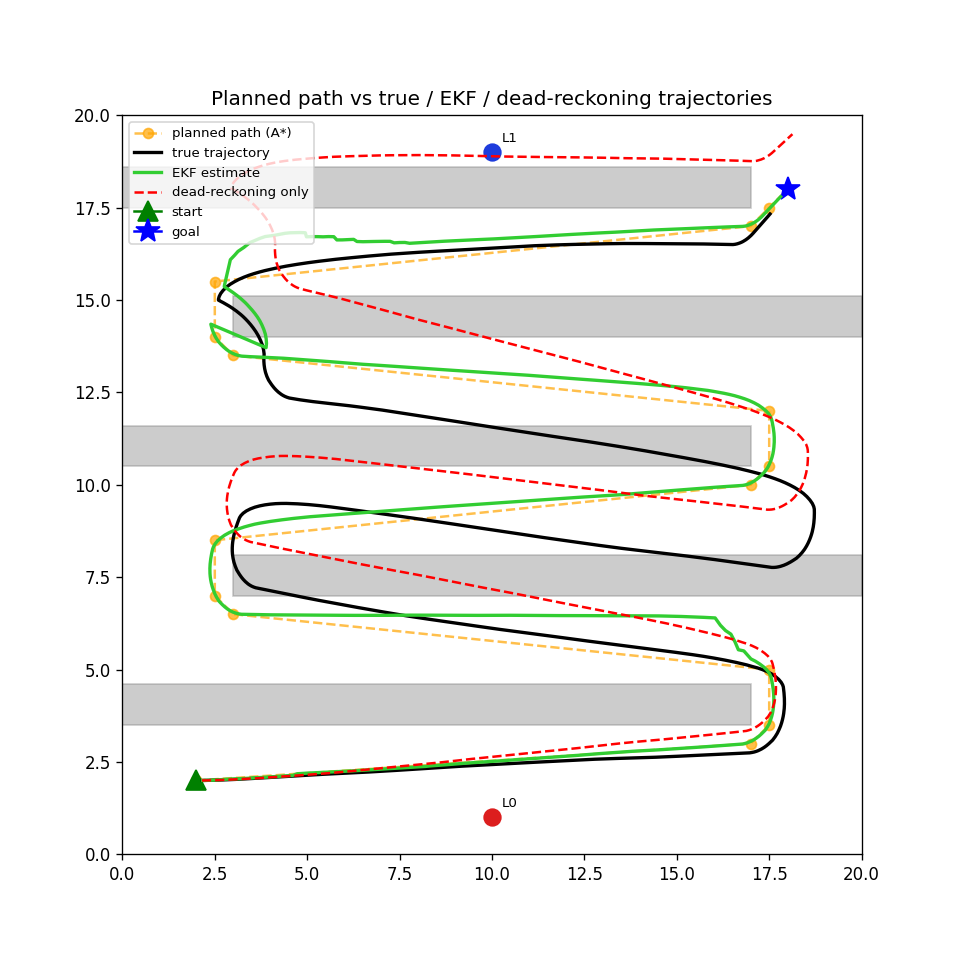
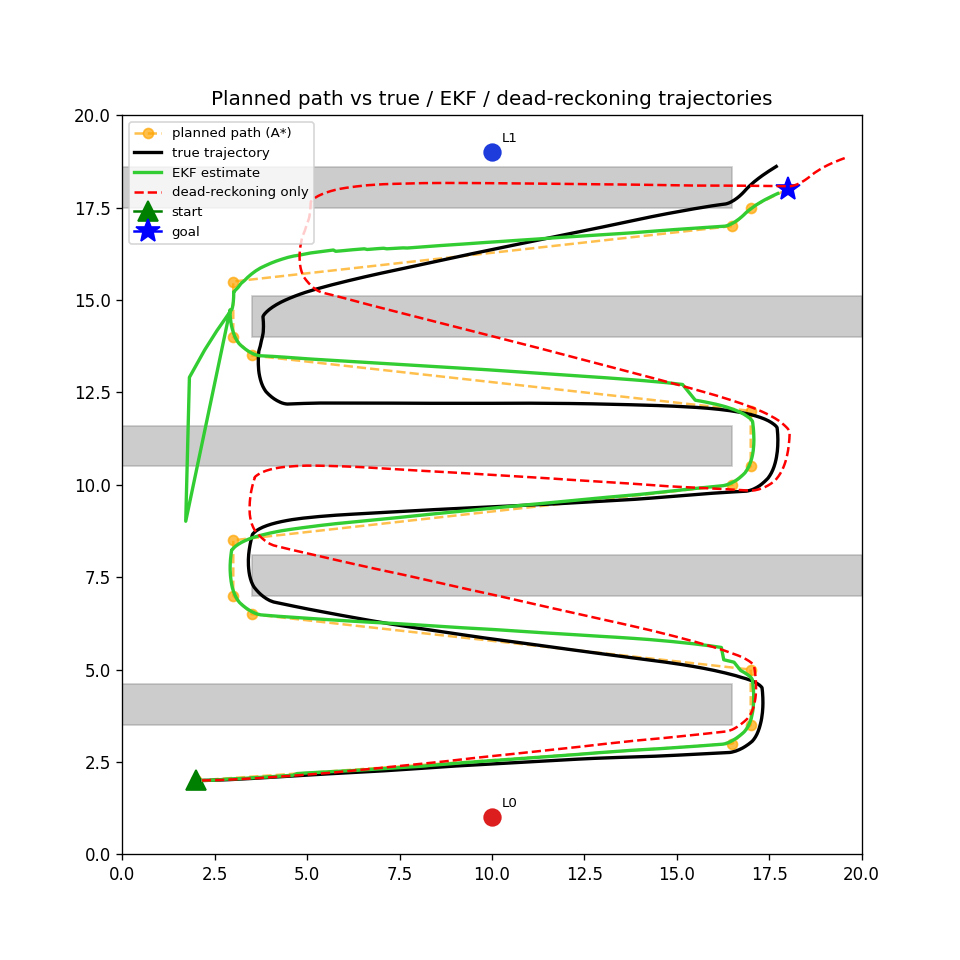
Fix controller cutting through walls at sharp maze corners
Root cause: this is a kinematic robot model (v/omega apply instantly, no
momentum), and the point-pursuit controller only scaled speed by plain
cos(heading_error), which still allows ~70% speed at 45 degrees of
misalignment. Turning 45+ degrees takes several timesteps at
MAX_ANGULAR_VELOCITY, and during those steps the robot kept translating
mostly in its old direction, enough to drive straight through a wall at
a sharp zigzag corner even though the planned A* path correctly routed
around it.

Fix: raise cos(heading_error) to a power (SPEED_TAPER_POWER = 4) instead
of using it directly, same shape, but drops off much faster in between,
so the robot is far more conservative about translating while still
turning. Eliminates the collision entirely in easy/medium/hard/very_hard.

Tried increasing the planner's obstacle margin instead (both for the grid
search and for path simplification), reverted both: each approach fixed
one scenario while breaking another, since margin changes which raw path
A* finds and how it gets simplified into straight segments, just moving
the sharp corners around rather than removing them.

extreme still grazes a wall occasionally (down from 139/759 steps to
55/739, and the pattern changed from one long 42-step overlap to three
short scattered incidents), traced this to a different cause:
extreme's sparse 2 landmarks let the EKF estimate drift further between
corrections, and the controller steers off that estimate, not the true
[…]

diff --git a/python/environment.py b/python/environment.py
@@ -112,11 +112,11 @@ SCENARIOS = {
         description="Same maze as 'very_hard' with only 2 landmarks: near the start and near the goal.",
         start_pose=_START_POSE, goal_position=_GOAL_POSITION,
         obstacles=[
-            Obstacle(x=0.0, y=3.5, width=17.0, height=1.1),
-            Obstacle(x=3.0, y=7.0, width=17.0, height=1.1),
-            Obstacle(x=0.0, y=10.5, width=17.0, height=1.1),
-            Obstacle(x=3.0, y=14.0, width=17.0, height=1.1),
-            Obstacle(x=0.0, y=17.5, width=17.0, height=1.1),
+            Obstacle(x=0.0, y=3.5, width=16.5, height=1.1),
+            Obstacle(x=3.5, y=7.0, width=16.5, height=1.1),
+            Obstacle(x=0.0, y=10.5, width=16.5, height=1.1),
+            Obstacle(x=3.5, y=14.0, width=16.5, height=1.1),
+            Obstacle(x=0.0, y=17.5, width=16.5, height=1.1),
         ],
         landmarks=_landmarks_at([(10.0, 1.0), (10.0, 19.0)]),
     ),

diff --git a/python/controller.py b/python/controller.py
@@ -44,6 +44,8 @@ HEADING_KI = 0.0
 HEADING_KD = 0.3
 MAX_ANGULAR_VELOCITY = 2.0
 
+SPEED_TAPER_POWER = 4
+
 LINEAR_KP = 0.8
 LINEAR_KI = 0.0
 LINEAR_KD = 0.0
@@ -80,7 +82,7 @@ class WaypointController:
         omega = self._heading_pid.compute(heading_error, dt)
         v = self._linear_pid.compute(distance, dt)
 
-        v *= max(0.0, math.cos(heading_error))
+        v *= max(0.0, math.cos(heading_error)) ** SPEED_TAPER_POWER
 
         return v, omega
 
